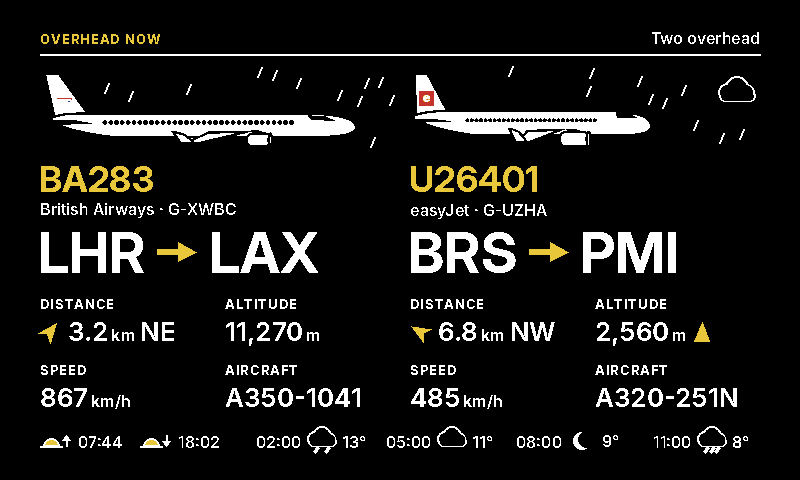
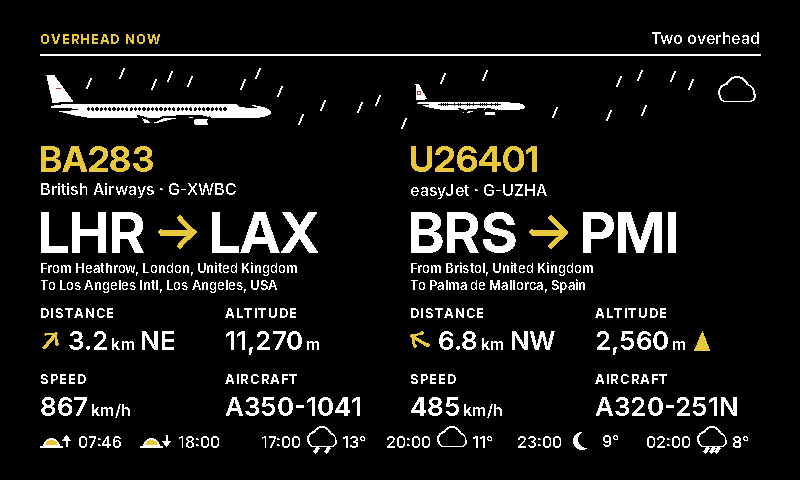
Full airport location under the codes, true-to-scale duo, modern arrows
- Airport, city and country in small type under each airport code
  (poster and duo), from adsbdb's airport names
- Two aircraft are drawn at the same scale, so an A380 dwarfs an A320
- New open, round-ended arrow for routes and the direction mark

Claude-Session: https://claude.ai/code/session_018gFwbrNEjFhUAusQjyrhwY

diff --git a/flightframe/render.py b/flightframe/render.py
@@ -195,6 +195,57 @@ def _ident(f):
     return f.flight_number or f.callsign or f.registration or (f.hex or "").upper()
 
 
+_COUNTRY = {"United States": "USA", "United States of America": "USA",
+            "United Arab Emirates": "UAE", "Russian Federation": "Russia",
+            "Korea, Republic of": "South Korea", "Iran, Islamic Republic of": "Iran"}
+
+
+def airport_name(ap):
+    """'London Heathrow Airport' -> 'Heathrow'; 'Los Angeles International Airport' ->
+    'Los Angeles Intl'; '' when it would only repeat the city."""
+    name, city = (ap.get("name") or "").strip(), (ap.get("city") or "").strip()
+    for w in (" International Airport", " Intl Airport", " Airport", " Aerodrome", " Airfield",
+              " Air Base", " Airstrip", " Heliport"):
+        if name.endswith(w):
+            name = name[: -len(w)] + (" International" if "International" in w else "")
+            break
+    name = name.replace("International", "Intl").strip()
+    if city and name.lower().startswith(city.lower() + " "):
+        rest = name[len(city):].strip()
+        if rest and rest.lower() != "intl":
+            name = rest
+    if name.lower() in (city.lower(), "", "intl"):
+        return ""
+    return name
+
+
+def place(ap):
+    """'Heathrow, London, United Kingdom': airport, city, country, without repeats."""
+    country = (ap.get("country") or "").strip()
+    country = _COUNTRY.get(country, country)
+    bits = [airport_name(ap), (ap.get("city") or "").strip(), country]
+    out = []
+    for b in bits:
+        if b and b.lower() not in (x.lower() for x in out):
+            out.append(b)
+    return ", ".join(out)
+
+
+LOC = ("semi", 13, 0)       # the full location under an airport code: very small
+
+
+def location(c, x, base, ap, max_w, anchor="ls", lines=2, prefix=""):
+    """The place name under a code, wrapped to at most `lines` lines. Returns the last baseline."""
+    f = F(LOC)
+    text = prefix + place(ap)
+    rows = _wrap(c.d, text, f, max_w)
+    if len(rows) > lines:
+        rows = rows[:lines - 1] + [ellipsize(c.d, " ".join(rows[lines - 1:]), f, max_w)]
+    for i, row in enumerate(rows):
+        c.text((x, base + i * 17), row, f, anchor=anchor)
+    return base + (len(rows) - 1) * 17
+
+
 def short_type(f):
     """'Airbus A350-1041' -> 'A350-1041'; the ICAO code when there's no name."""
     name = (f.type_name or "").strip()
@@ -369,13 +420,33 @@ def finish(c, cfg, wx, night, decorate=True):
 
 
 # ---------------------------------------------------------------- components
+def open_arrow(d, tail, tip, thick, fill, head=None):
+    """The one arrow: a straight shaft with an open, round-ended chevron head."""
+    (x0, y0), (x1, y1) = tail, tip
+    ln = math.hypot(x1 - x0, y1 - y0) or 1
+    ux, uy = (x1 - x0) / ln, (y1 - y0) / ln
+    h = head or max(thick * 2.4, 6)
+    arm = h / math.sqrt(2)
+    left = (x1 - arm * (ux - uy), y1 - arm * (uy + ux))
+    right = (x1 - arm * (ux + uy), y1 - arm * (uy - ux))
+    back = (x1 - ux * thick * 0.35, y1 - uy * thick * 0.35)
+    w = max(2, int(round(thick)))
+    d.line([tail, back], fill=fill, width=w)
+    d.line([left, tip, right], fill=fill, width=w, joint="curve")
+    r = w / 2 - 0.25
+    for px, py in (tail, left, right, tip):
+        d.ellipse([px - r, py - r, px + r, py + r], fill=fill)
+
+
 def compass_glyph(d, cx, cy, r, bearing, facing=0, accent=RED):
-    """The direction mark: one solid chevron pointing at the aircraft,
-    turned to suit the way the frame faces. No ring, no hairlines."""
+    """The direction mark: the arrow pointing at the aircraft, turned to suit the
+    way the frame faces."""
     a = math.radians((bearing - (facing or 0)) % 360)
-    ca, sa = math.cos(a), math.sin(a)
-    shape = [(0, -r), (0.8 * r, 0.9 * r), (0, 0.4 * r), (-0.8 * r, 0.9 * r)]
-    d.polygon([(cx + x * ca - y * sa, cy + x * sa + y * ca) for x, y in shape], fill=accent)
+    ux, uy = math.sin(a), -math.cos(a)
+    k = r * 0.92
+    thick = max(2, round(r / 3.2))
+    open_arrow(d, (cx - ux * k, cy - uy * k), (cx + ux * k, cy + uy * k), thick, accent,
+               head=r * 1.05)
 
 
 UNITS = ("m", "ft", "km", "mi", "km/h", "mph", "h", "min")
@@ -494,11 +565,8 @@ def _footer_wx(c, wx):
 
 
 def _arrow(c, x0, x1, y, fill, thick=ARROW_ROUTE):
-    """The one arrow: a solid shaft and a head 3 x the stroke long."""
-    head = thick * 3
-    hw = thick * 1.6
-    c.d.rectangle([x0, y - thick // 2, x1 - head + 1, y - thick // 2 + thick - 1], fill=fill)
-    c.d.polygon([(x1, y), (x1 - head, y - hw), (x1 - head, y + hw)], fill=fill)
+    """A horizontal route arrow (see open_arrow)."""
+    open_arrow(c.d, (x0 + thick / 2, y), (x1 - thick / 2, y), thick, fill, head=thick * 2.6 + 4)
 
 
 def route_line(c, x, base, o, d, style, max_w, anchor="l"):
@@ -632,9 +700,8 @@ def poster(f, cfg, nearby=0, logo=None, wx=None):
             c.text((c.w - c.m + 3, L_HERO), d["iata"], big, anchor="rs")
             _arrow(c, c.w // 2 - 40, c.w // 2 + 40, int(L_HERO - cap(HERO, size) / 2), accent,
                    thick=ARROW_HERO)
-            zc = min(fit_scale(c, ap["city"], SUB, code_w + 40)[1] for ap in (o, d))
             for ap, anchor, x in ((o, "ls", c.m), (d, "rs", c.w - c.m)):
-                c.text((x, L_CITY), ap["city"], F(SUB, zc), anchor=anchor)
+                location(c, x, L_HERO + 26, ap, code_w + 30, anchor=anchor)
         else:
             name = f.type_name or f.type_code or "Aircraft"
             fb, z = fit_scale(c, name, DISPLAY, c.inner, 26)
@@ -656,14 +723,12 @@ def poster(f, cfg, nearby=0, logo=None, wx=None):
             big = F(HERO, size)
             b1 = P_CODE1 + (top - P_PLANE)
             c.text((c.m - 5, b1), o["iata"], big, anchor="ls")
-            fc, _ = fit_scale(c, o["city"], SUB, c.inner)
-            c.text((c.m, b1 + 36), o["city"], fc, anchor="ls")
+            location(c, c.m, b1 + 26, o, c.inner)
             ay = b1 + 66
             _arrow(c, c.m, c.m + 80, ay, accent, thick=ARROW_HERO)
             b2 = ay + 28 + cap(HERO, size)
             c.text((c.m - 5, b2), d["iata"], big, anchor="ls")
-            fc, _ = fit_scale(c, d["city"], SUB, c.inner)
-            c.text((c.m, b2 + 36), d["city"], fc, anchor="ls")
+            location(c, c.m, b2 + 26, d, c.inner)
         else:
             name = f.type_name or f.type_code or "Aircraft"
             fb = F(DISPLAY)
@@ -847,9 +912,11 @@ def duo(flights, cfg, nearby=2, logos=(None, None), wx=None):
     count = f"{nearby} overhead" if nearby > 2 else "Two overhead"
     _header(c, "OVERHEAD NOW", count)
 
-    def block(i, f, x, w, y0, ph, xs, col_w):
+    kinds = [plane.classify(f.type_code, f.category) for f in flights[:2]]
+
+    def block(i, f, x, w, y0, ph, xs, col_w, ppm=None, rs=DISPLAY):
         if show_plane and ph:
-            img = plane.draw(plane.classify(f.type_code, f.category), int(w), ph,
+            img = plane.draw(kinds[i], int(w), ph, ppm=ppm,
                              logo=logos[i] if i < len(logos) else None, accent=c.accent)
             px = x if not c.portrait else x + (w - img.width) // 2
             c.paste_plane(img, (px, y0 + (ph - img.height) // 2))
@@ -857,30 +924,34 @@ def duo(flights, cfg, nearby=2, logos=(None, None), wx=None):
         fn, _ = fit_scale(c, ident(f), TITLE, w, 26)
         c.text((x - 1, b_num), ident(f), fn, fill=c.accent, anchor="ls")
         b_id = _identity(c, x, b_num + 24, f, w, BODY, max_lines=1)
-        b_route = b_id + 16 + cap(DISPLAY)
+        b_route = b_id + 16 + cap(rs)
         if f.has_route:
-            route_line(c, x - 2, b_route, f.origin["iata"], f.destination["iata"], DISPLAY, w)
+            route_line(c, x - 2, b_route, f.origin["iata"], f.destination["iata"], rs, w)
+            b = location(c, x, b_route + 20, f.origin, w, lines=1, prefix="From ")
+            b_route = location(c, x, b + 17, f.destination, w, lines=1, prefix="To ") - 4
         else:
             name = f.type_name or f.type_code or "Aircraft"
-            fr, _ = fit_scale(c, name, DISPLAY, w, 26)
+            fr, _ = fit_scale(c, name, rs, w, 26)
             c.text((x - 2, b_route), name, fr, anchor="ls")
         cells = [("Distance", "", f), ("Altitude", fmt_alt(f.altitude_ft, c.units), phase(f)),
                  ("Speed", fmt_speed(f.speed_kt, c.units)), ("Aircraft", aircraft_value(c, f, col_w))]
-        _stats(c, b_route + 36, cells, xs, col_w)
-        return b_route + 36 + ROW_H + VAL_DY
+        _stats(c, b_route + 32, cells, xs, col_w)
+        return b_route + 32 + ROW_H + VAL_DY
 
     if not c.portrait:
-        ph = 80 if show_plane else 0
+        ph = 60 if show_plane else 0
         col_w = (c.half - GUTTER) // 2
+        ppm = plane.common_scale(kinds, c.half, ph) if ph else None
         for i, f in enumerate(flights[:2]):
             x = c.m if i == 0 else c.mid
-            block(i, f, x, c.half, CONTENT_TOP - 2, ph, [x, x + col_w + GUTTER], col_w)
+            block(i, f, x, c.half, CONTENT_TOP - 2, ph, [x, x + col_w + GUTTER], col_w, ppm)
         c.sky = (c.m, CONTENT_TOP - 8, c.w - c.m + 8, CONTENT_TOP + ph) if show_plane else None
     else:
-        ph = 52 if show_plane else 0
-        span = (c.bottom - CONTENT_TOP) // 2
+        ph = 44 if show_plane else 0
+        ppm = plane.common_scale(kinds, c.inner, ph) if ph else None
+        y = CONTENT_TOP - 2
         for i, f in enumerate(flights[:2]):
-            block(i, f, c.m, c.inner, CONTENT_TOP - 2 + i * span, ph, c.cols, c.col_w)
+            y = block(i, f, c.m, c.inner, y, ph, c.cols, c.col_w, ppm, rs=TITLE) + 18
         c.sky = None
     _footer_wx(c, wx)
     return finish(c, cfg, wx, night, decorate=not c.portrait)

diff --git a/flightframe/plane.py b/flightframe/plane.py
@@ -98,12 +98,36 @@ def _quantise(img):
     return img.convert("RGB").quantize(palette=pal, dither=Image.Dither.NONE).convert("RGB")
 
 
-def draw(kind, box_w, box_h, logo=None, accent=(255, 0, 0), stroke=2.2, face_right=True):
-    """Return (RGB image, (w, h)) of the aircraft fitted inside box_w x box_h."""
+def length_m(kind):
+    """The real fuselage length in metres (drawings run 0 to 100 nose to tail)."""
+    try:
+        return float(airframes.lookup(kind).get("length") or 30.0)
+    except (TypeError, ValueError):
+        return 30.0
+
+
+def common_scale(kinds, box_w, box_h, stroke=2.2):
+    """Pixels per metre that fits every one of these aircraft in a box_w x box_h box,
+    so that drawn side by side they are true to size."""
+    pad = stroke * 1.2
+    best = None
+    for k in kinds:
+        bx0, by0, bx1, by1 = _bbox(ops_for(k))
+        m = length_m(k) / 100.0
+        ppm = min((box_w - 2 * pad) / ((bx1 - bx0) * m), (box_h - 2 * pad) / ((by1 - by0) * m))
+        best = ppm if best is None else min(best, ppm)
+    return best
+
+
+def draw(kind, box_w, box_h, logo=None, accent=(255, 0, 0), stroke=2.2, face_right=True, ppm=None):
+    """Return an RGB image of the aircraft fitted inside box_w x box_h.
+    ppm: draw at this many pixels per metre instead (see common_scale)."""
     ops = ops_for(kind)
     bx0, by0, bx1, by1 = _bbox(ops)
     pad = stroke * 1.2
     scale = min((box_w - 2 * pad) / (bx1 - bx0), (box_h - 2 * pad) / (by1 - by0))
+    if ppm:
+        scale = min(scale, ppm * length_m(kind) / 100.0)
     w = int(math.ceil((bx1 - bx0) * scale + 2 * pad))
     h = int(math.ceil((by1 - by0) * scale + 2 * pad))
 

diff --git a/tools/preview.py b/tools/preview.py
@@ -82,10 +82,27 @@ def sample_radar():
     return out
 
 
+# Airport names and countries as adsbdb gives them
+AIRPORTS = {
+    "LHR": ("London Heathrow Airport", "United Kingdom"), "LAX": ("Los Angeles International Airport", "United States"),
+    "BRS": ("Bristol Airport", "United Kingdom"), "PMI": ("Palma de Mallorca Airport", "Spain"),
+    "DUB": ("Dublin Airport", "Ireland"), "FAO": ("Faro Airport", "Portugal"),
+    "MAN": ("Manchester Airport", "United Kingdom"), "DXB": ("Dubai International Airport", "United Arab Emirates"),
+    "SOU": ("Southampton Airport", "United Kingdom"), "EDI": ("Edinburgh Airport", "United Kingdom"),
+    "FRA": ("Frankfurt am Main Airport", "Germany"), "LPA": ("Gran Canaria Airport", "Spain"),
+    "STN": ("London Stansted Airport", "United Kingdom"),
+}
+for _s in SAMPLES.values():
+    for _ap in (_s.origin, _s.destination):
+        if _ap.get("iata") in AIRPORTS:
+            _ap["name"], _ap["country"] = AIRPORTS[_ap["iata"]]
+
 LHR = {"iata": "LHR", "city": "London", "lat": 51.4706, "lon": -0.46194}
 LAX = {"iata": "LAX", "city": "Los Angeles", "lat": 33.9425, "lon": -118.408}
 STN = {"iata": "STN", "city": "London", "lat": 51.885, "lon": 0.235}
 DUB = {"iata": "DUB", "city": "Dublin", "lat": 53.4213, "lon": -6.27007}
+for _ap in (LHR, LAX, STN, DUB):
+    _ap["name"], _ap["country"] = AIRPORTS[_ap["iata"]]
 
 
 def sample_track():
